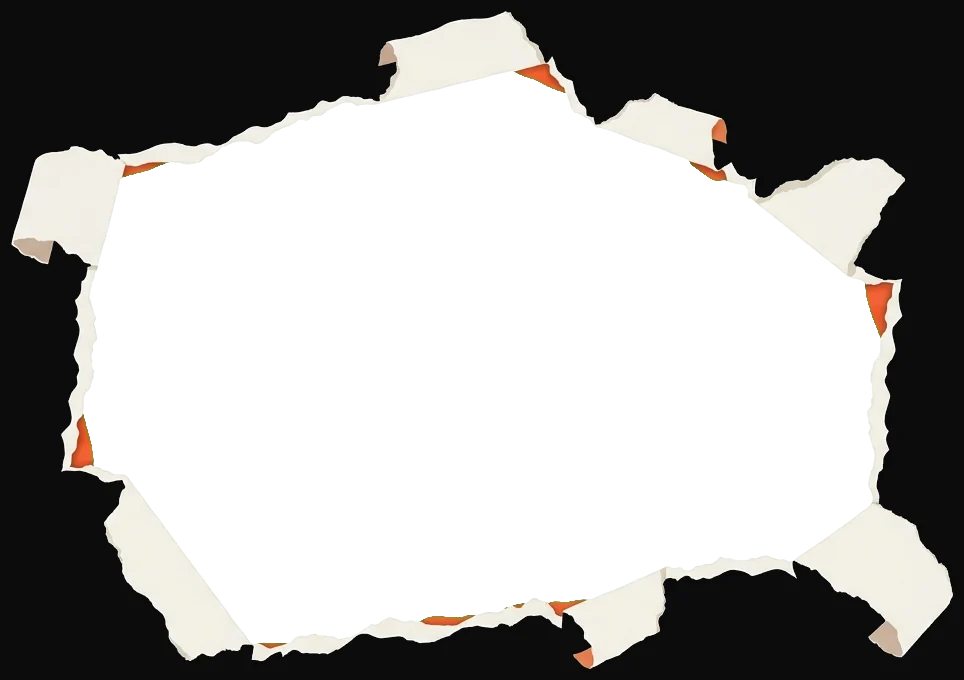
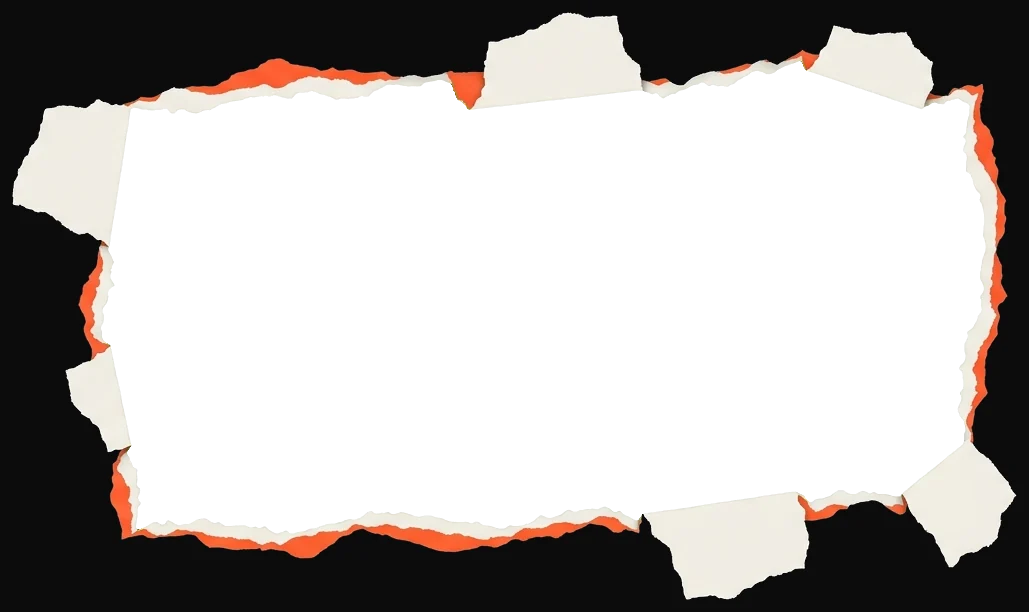
feat(landing): la página rota, al ancho de la columna como el marco de antes
A pedido de Federico: el fichín vuelve a ocupar el ancho de la columna, como
con la cinta, pero con la página rota. Para la compu, una lámina nueva de Flow
con una rotura apaisada (proporción 1,68) en vez de la casi cuadrada, así no
se deforma ni queda más alta que la pantalla. En el celular, al ancho de la
columna (ya no se sale por los costados).

Changed region(s): [[0.0, 0.0, 0.9959, 0.9935]]

diff --git a/components/rd/arcade.tsx b/components/rd/arcade.tsx
@@ -645,7 +645,7 @@ export function RdArcade() {
       id="en-vivo"
       data-theme="ink"
       aria-label="La oficina en vivo"
-      className="relative overflow-x-clip bg-(--ink) pt-10 pb-32 md:pt-16 md:pb-48"
+      className="relative bg-(--ink) pt-10 pb-32 md:pt-16 md:pb-48"
     >
       <div className="rd-wrap">
         <div className="grid gap-8 lg:grid-cols-12">
@@ -681,13 +681,13 @@ export function RdArcade() {
 
         {/* El marco: la página rota. Por el agujero se ven las máquinas del otro lado
             y el video del fichín; la hoja es del mismo negro que la página, así el
-            borde de la imagen no se nota. Tiene la forma de la lámina (una apaisada
-            y otra parada para el celular), sin deformarse. En el celular se sale un
-            poco de los costados: la rotura sigue más allá de la pantalla. */}
+            borde de la imagen no se nota. Ocupa el ancho de la columna, como el marco
+            de antes, con la forma de la lámina (una apaisada y otra parada para el
+            celular), sin deformarse. */}
         <div ref={frameRef} className="relative mt-14 md:mt-20">
           <div
             ref={slotRef}
-            className="relative left-1/2 aspect-[748/1101] w-[110vw] max-w-[calc(86svh*748/1101)] -translate-x-1/2 sm:left-auto sm:mx-auto sm:aspect-[964/680] sm:w-full sm:max-w-[min(100%,calc(88svh*964/680))] sm:translate-x-0"
+            className="relative mx-auto aspect-[748/1101] w-full sm:aspect-[1029/612] sm:max-w-[min(100%,calc(92svh*1029/612))]"
           >
             <button
               ref={panelRef}

diff --git a/public/en-vivo/README.md b/public/en-vivo/README.md
@@ -26,13 +26,18 @@ página (así el borde de la imagen no se nota) y recorta el negro que sobra:
 
     node scripts/pagina-rota.mjs "C:/Users/feder/OneDrive/Escritorio/personajes/landing"
 
-La caja del fichín tiene la proporción de cada lámina (en `components/rd/arcade.tsx`),
-así no se deforma. Al entrar a la oficina la hoja se desvanece. La instrucción:
+La caja del fichín ocupa el ancho de la columna, con la proporción de cada
+lámina (en `components/rd/arcade.tsx`), así no se deforma. Al entrar a la
+oficina la hoja se desvanece. La instrucción de la de compu (la de celular pide
+un agujero más alto que ancho):
 
     Flat 2D illustration with a clean hand-cut paper look, crisp edges, flat
     colors. A sheet of matte near-black paper (#0B0B0C) fills the entire image
-    edge to edge [...]. In the center a big irregular hole is ripped through the
-    sheet, as if the web page was torn open [...] a thin ragged off-white core
+    edge to edge [...]. A big torn hole is ripped through the middle of the
+    sheet, as if the web page was torn open. The hole is large and roughly
+    follows the shape of the image: it reaches from about 7% to 93% of the width
+    and from about 8% to 92% of the height, so it is clearly wider than tall but
+    not a thin strip, and it never touches the image borders [...] a thin ragged off-white core
     (#F2EEE6) like torn paper fibers, and a few small torn flaps curl back [...]
     A thin warm orange (#FF4D2E) layer peeks between the black and the
     off-white at a few spots. The inside of the hole is solid flat pure green
